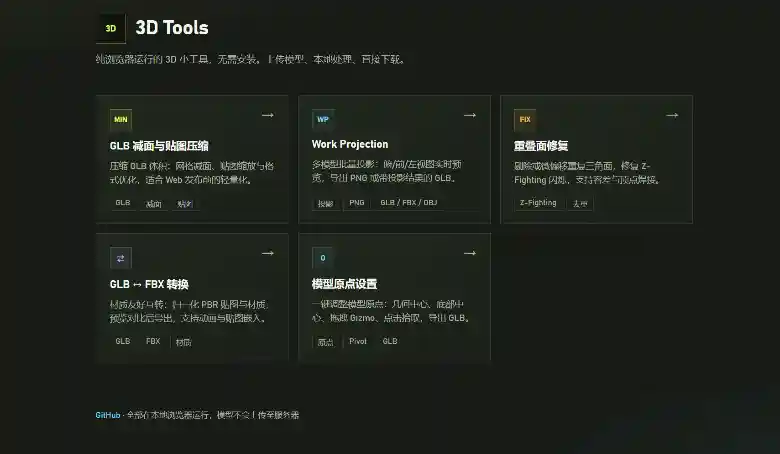
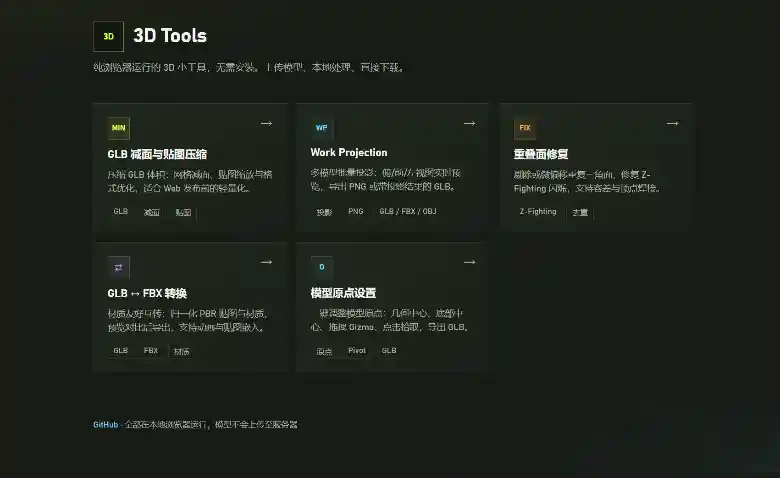
sync 2026-06-20T14:54:50.442Z

diff --git a/githubExamples.js b/githubExamples.js
@@ -387,7 +387,7 @@ export default [
             },
             {
                 id: '3d_tools',
-                name: '3d工具集',
+                name: '3D相关工具集',
                 name_en: '3d_tools',
                 author: 'AUTO',
                 openUrl: 'https://z2586300277.github.io/3d_tools/',